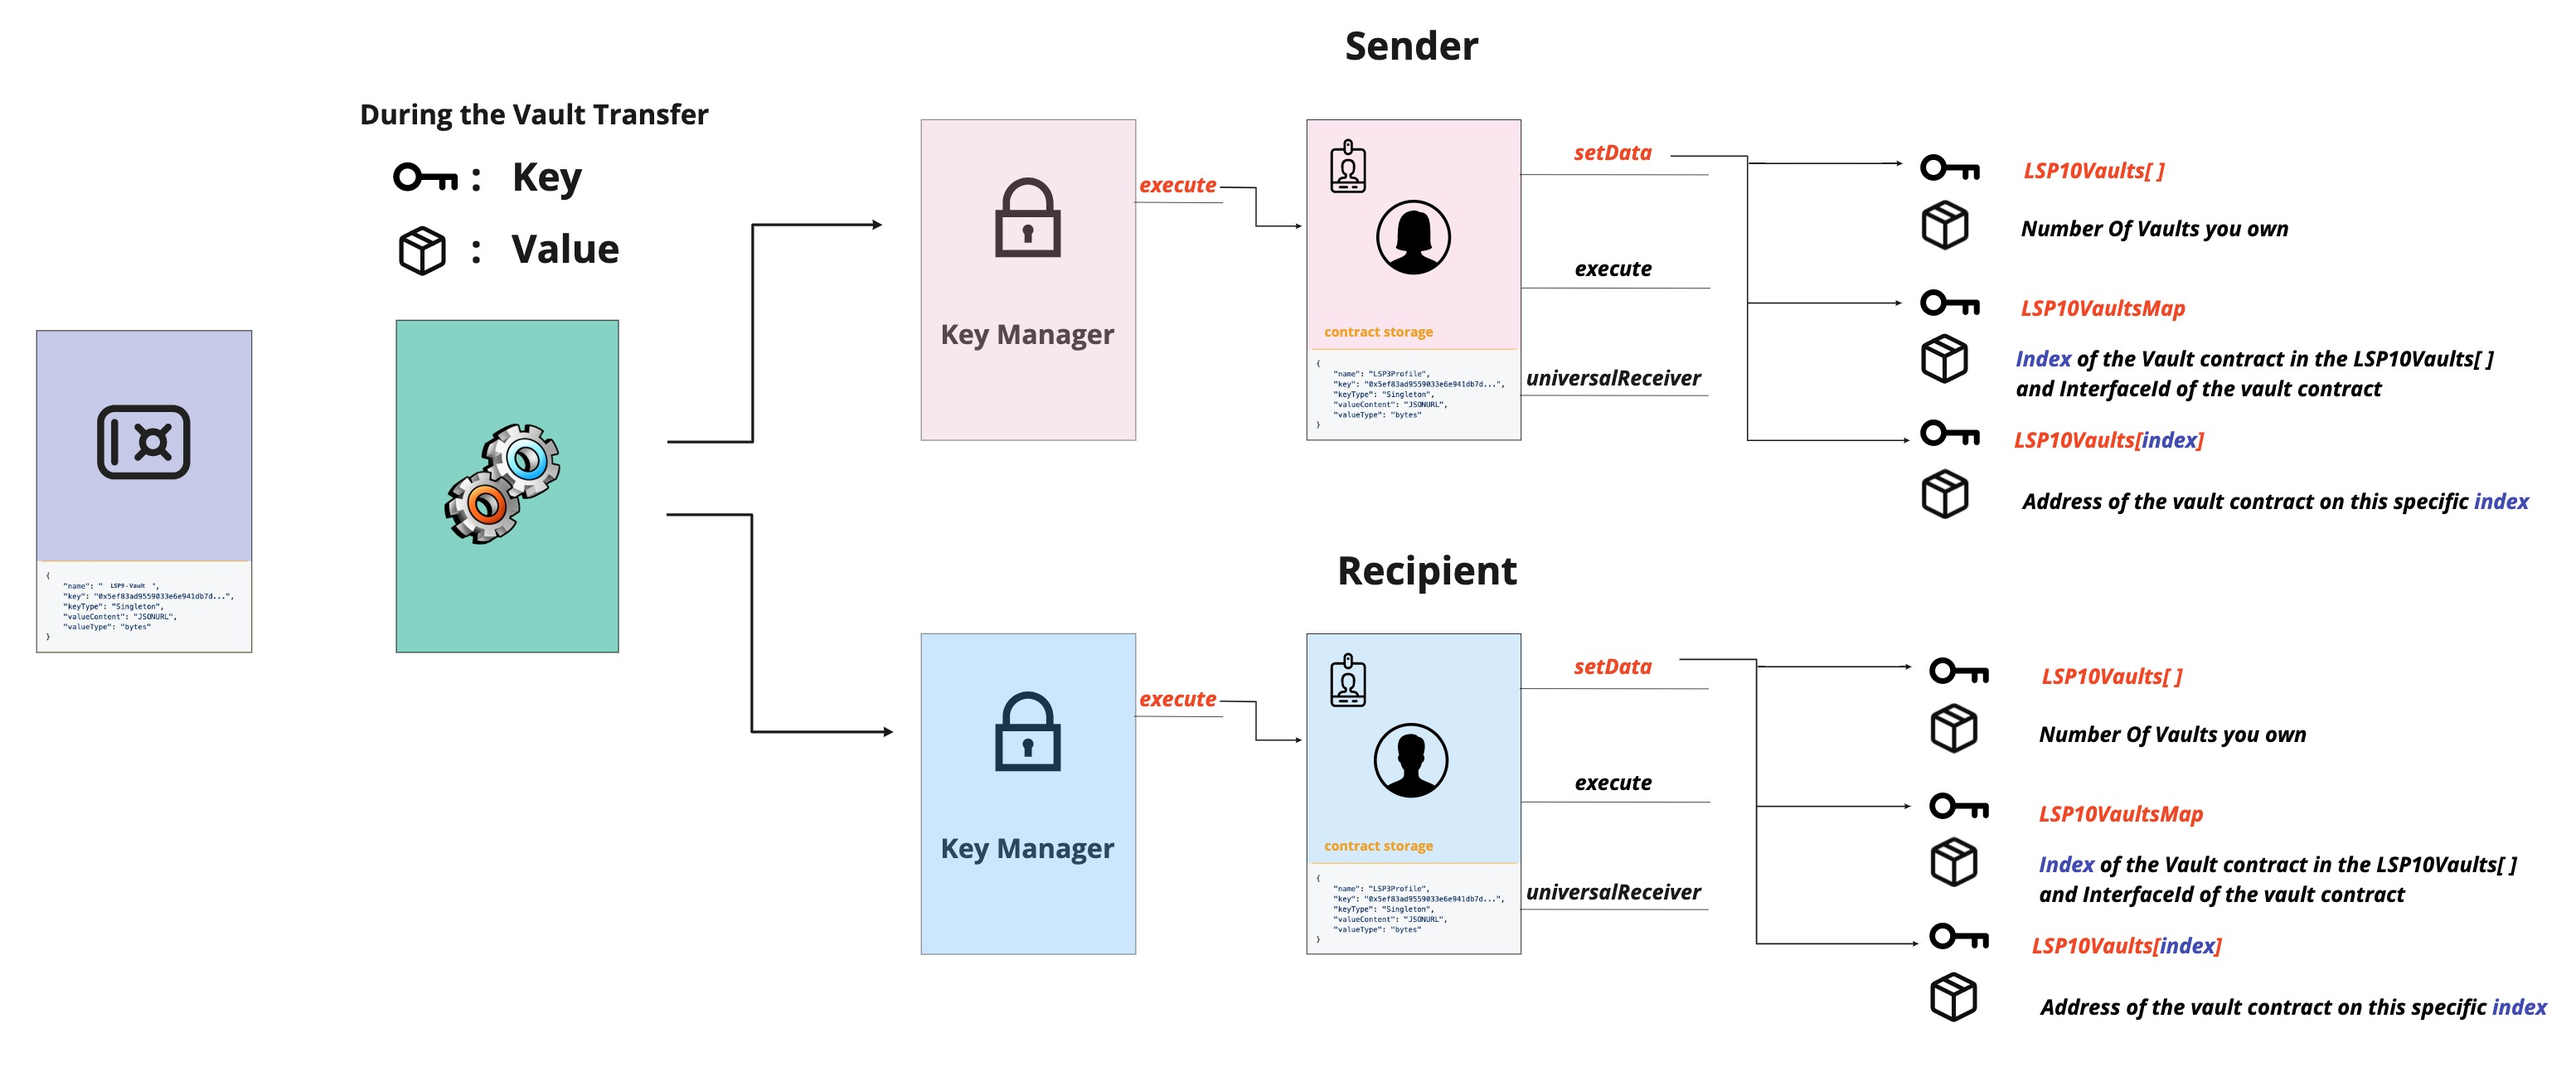
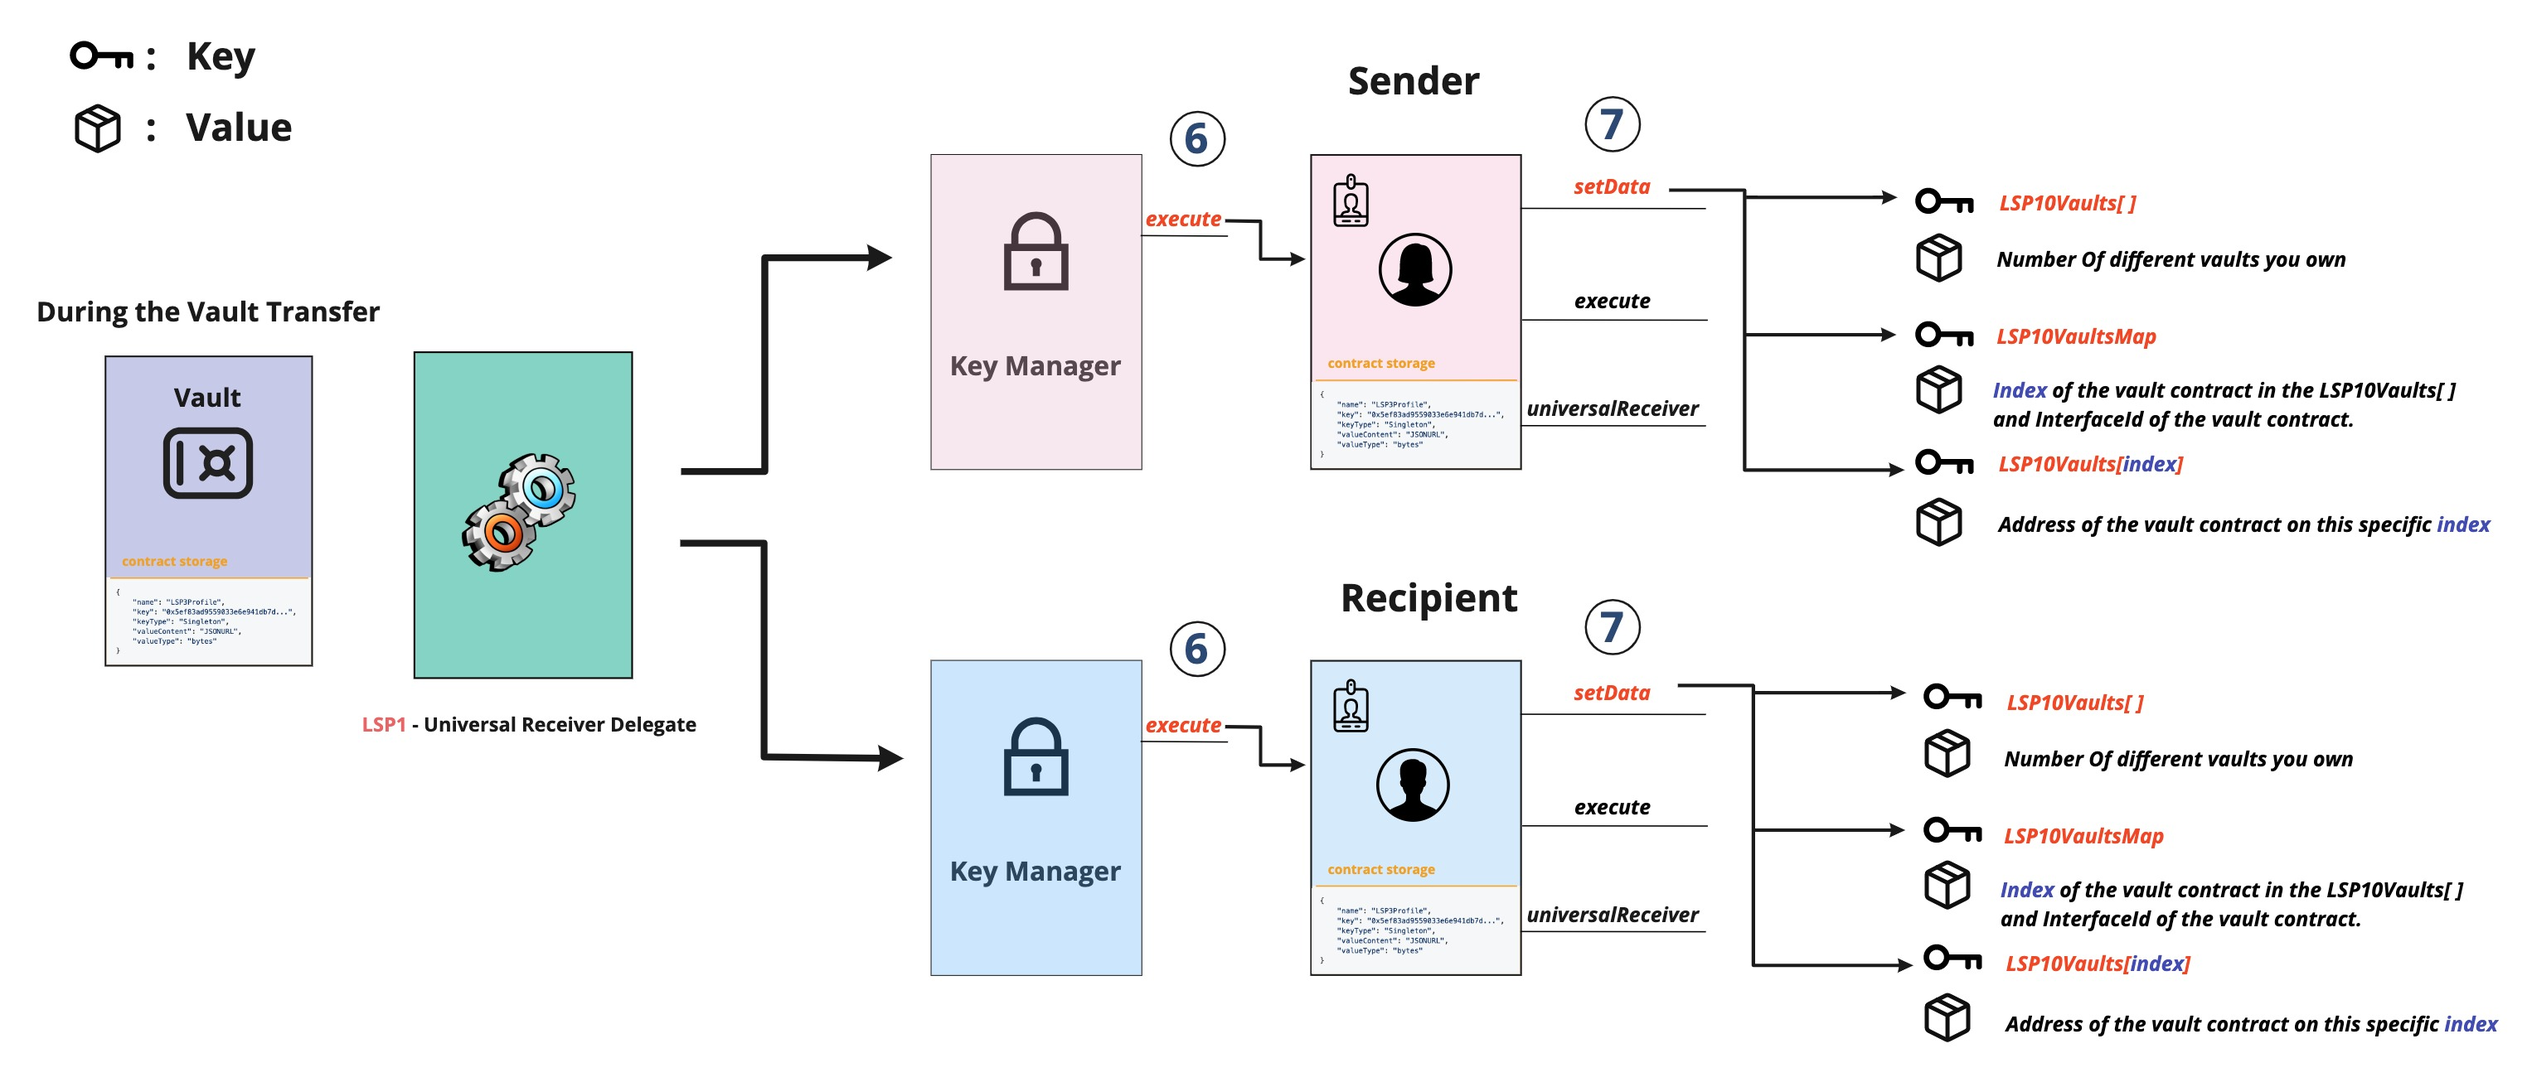
docs: edit lsp10 figures

diff --git a/docs/standards/universal-profile/08-lsp10-received-vaults.md b/docs/standards/universal-profile/08-lsp10-received-vaults.md
@@ -71,4 +71,6 @@ The keys are also set on the **sender UniversalProfile** to remove the vault con
 
 These keys are automatically updated in the UniversalProfile storage via the [LSP1UniversalReceiverDelegateUP](../smart-contracts/lsp1-universal-receiver-delegate-up.md) contract if set, when transferring vaults.
 
+![Vault transfer detailed flow](../../../static/img/detailed-vault-transfer.jpeg)
+
 ![LSP10 Received Vaults Flow](../../../static/img/lsp10-received-vaults.jpeg)
